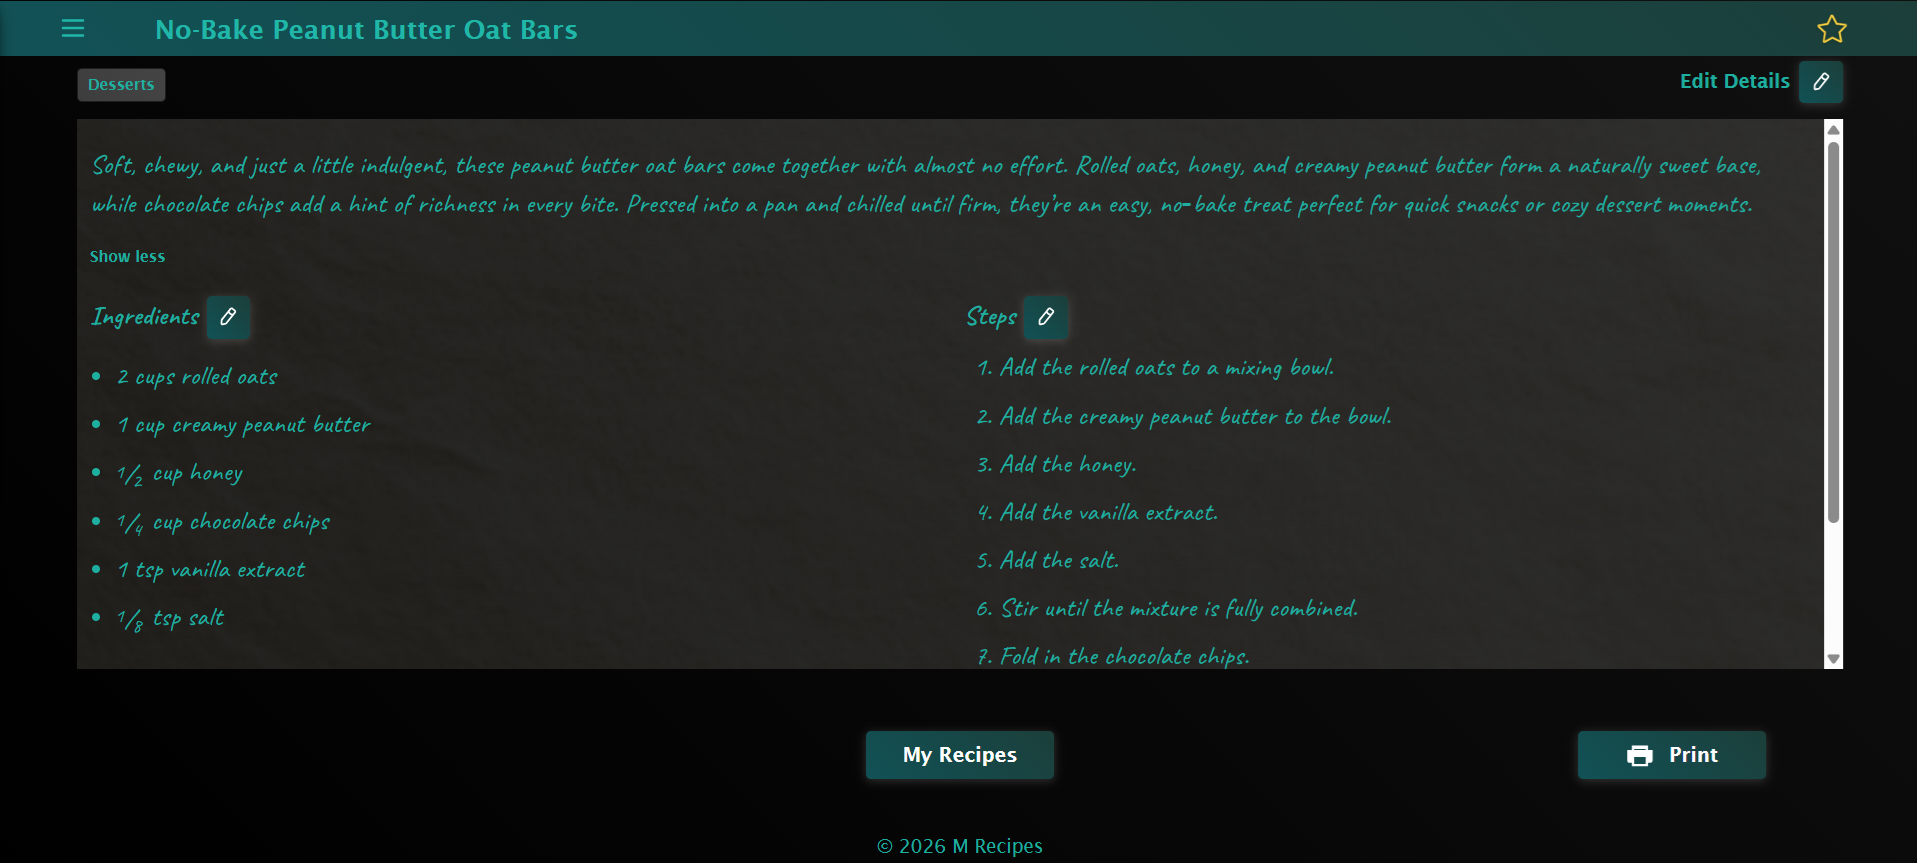
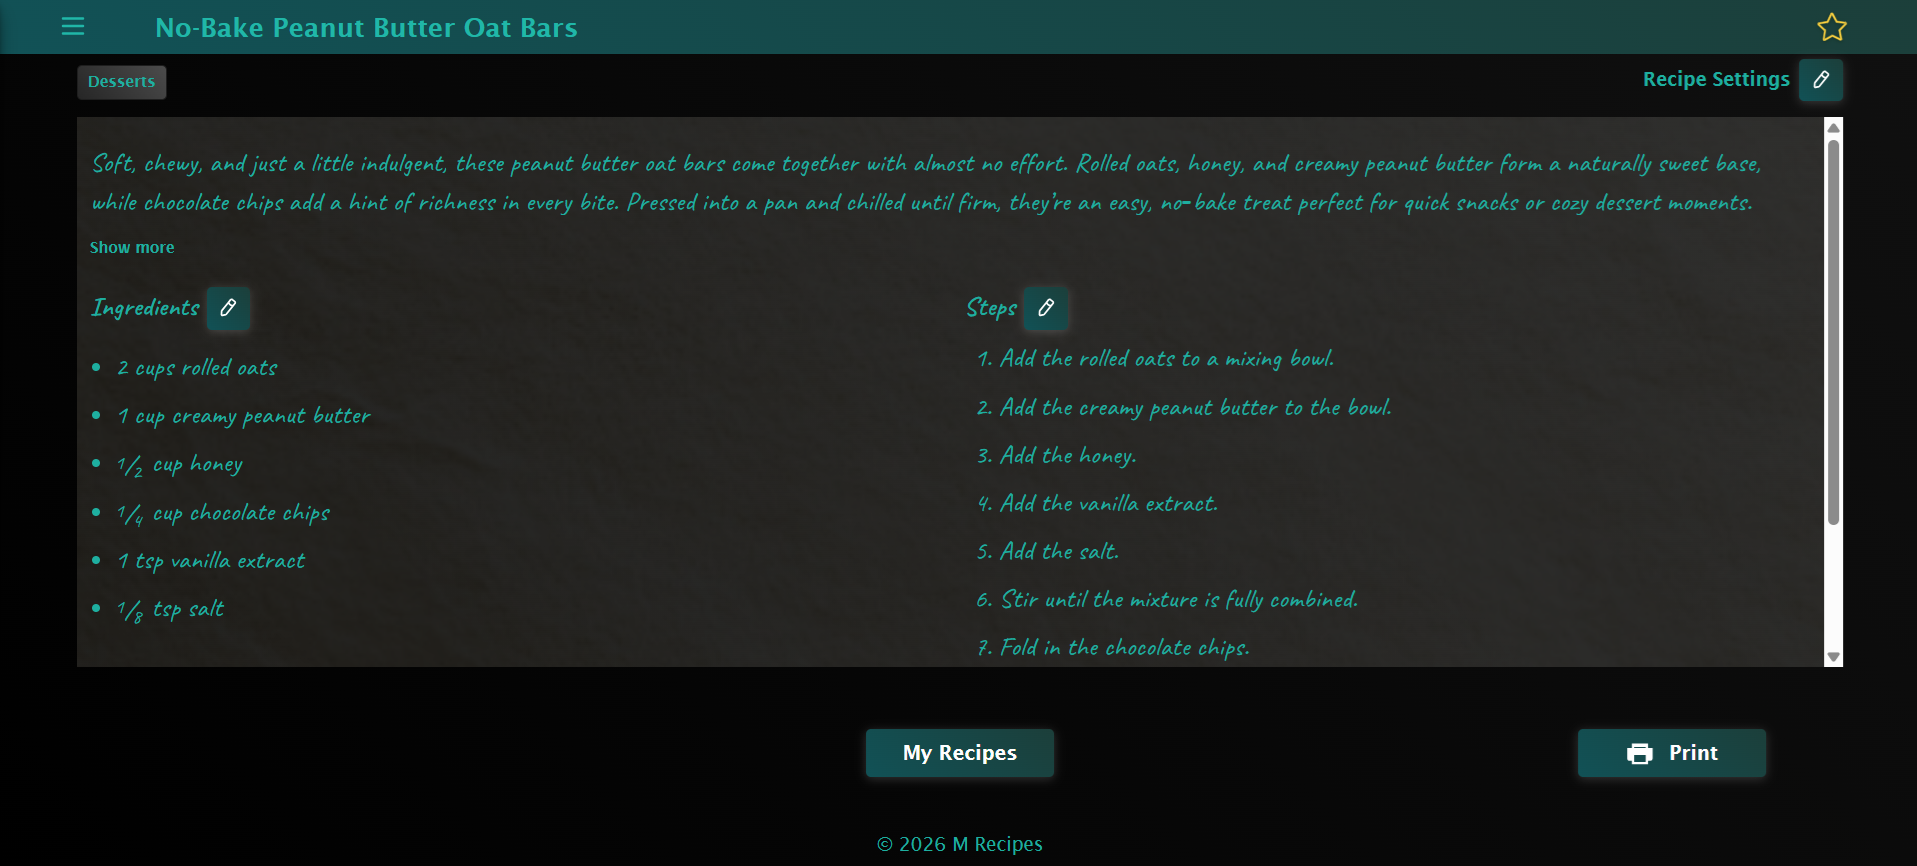
Updated README to include new dashboard feature.

diff --git a/README.md b/README.md
@@ -25,7 +25,7 @@ https://www.recipesbymichelle.app/
 - Back-end: Azure Web App Service
 - Database: Self‑hosted VPS
 
-## Features ##
+## Original Features (From Razor Build) ##
 - Add and edit recipes including ingredients and steps
 - View recipes on your phone while cooking
 - Search other's recipes
@@ -34,7 +34,7 @@ https://www.recipesbymichelle.app/
 - Theme selector with seven predefined themes, allowing users to customize the appearance of the app
 - Print friendly recipe pages
 
-## New Features ##
+## Features Introduced in the React Rebuild ##
 - Recipe font choice — Choose between a clean sans‑serif style or a handwritten aesthetic (Google Caveat) for a more personal, cookbook‑like feel.
 - Ingredient auto‑correction — Quantities and units auto‑correct on blur based on the selected measurement system, reducing errors and improving consistency.
 - Enhanced steps editor — Supports basic formatting (bold, italic, underline) for clearer, more readable cooking instructions.
@@ -42,7 +42,13 @@ https://www.recipesbymichelle.app/
 - Category Management — Organize your entire recipe collection with flexible multi‑category support, custom sort orders, and intuitive tools for adding, moving, or removing categories.
 - Modernized UI — Enjoy a fully upgraded interface featuring improved layout geometry, refined spacing, and a smoother, more accessible user experience across desktop and mobile.
 
+## New Features (Brand‑New Additions) ##
+- The dashboard has been fully rebuilt into a real “home base” for the app. It now shows your Cooking Tip of the Day (rotating daily with a 4 AM cutoff), a Favorites Preview for quick access to your top recipes, and a Cooking Profile — a clean bar chart of your top 5 categories, each slice clickable so you can jump straight into that category. It’s fast, readable, and finally feels like a proper landing page.
+
 ## Screenshots ##
+
+- ![Dashboard - Dark Teal](./screenshots/00-Dashboard.png)
+*A look at the new dashboard with the daily cooking tip, favorites preview, and your top‑5 cooking profile.*
 
 - ![Recipe Ingredients - Dark Teal](./screenshots/01-Ingredients.png)
 *Edit recipe ingredients with a clean, structured interface designed for fast, error‑free entry.*
@@ -67,3 +73,6 @@ Browse your recipes in a clean, modern layout. Use the **View By** menu to switc
 
 - ![Theme selector - Spring Garden](./screenshots/08-Theme-Selector.png)
 *Seven predefined themes allow users to personalize the appearance of the app.*
+
+- ![Dashboard - Winter Grove](./screenshots/09-Dashboard-Winter-Grove.png)
+*The dashboard shown in Winter Grove theme — blending the new layout with the seasonal look*
